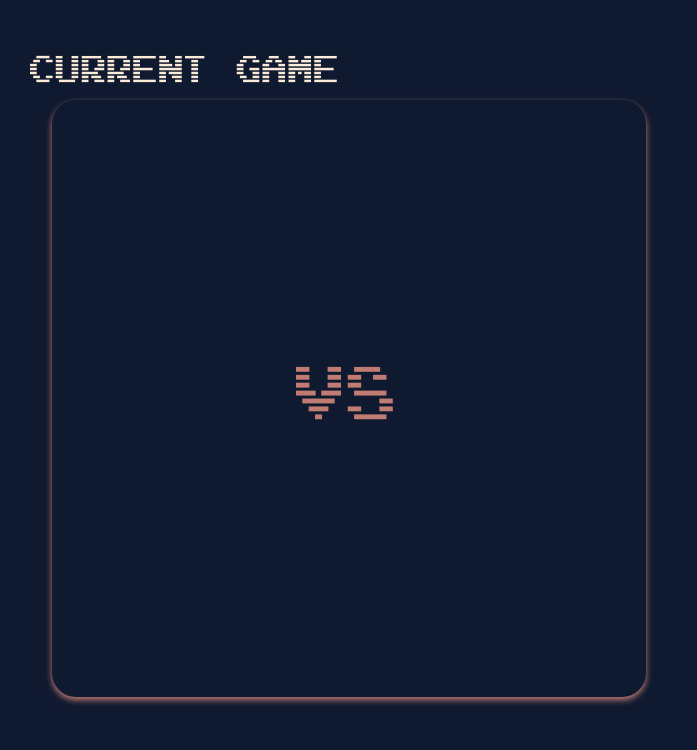
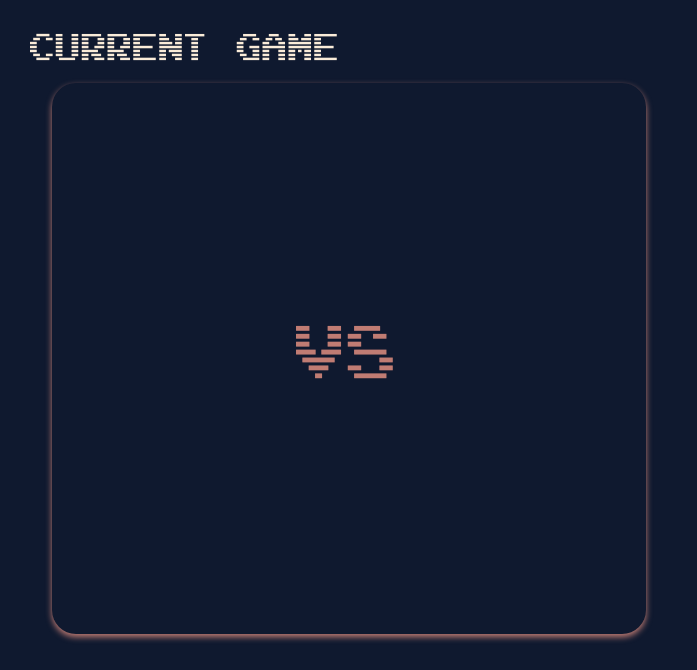
Players' panel är färdig, den har rätt mättningar och stil nu

diff --git a/src/Client/view/CurrentGameUI.java b/src/Client/view/CurrentGameUI.java
@@ -4,6 +4,8 @@ import Client.Controller.ClientController;
 
 import javax.swing.*;
 import java.awt.*;
+import java.io.File;
+import java.io.IOException;
 
 public class CurrentGameUI extends JFrame {
     private ClientController controller;
@@ -13,16 +15,14 @@ public class CurrentGameUI extends JFrame {
     private JPanel playersPnl = new JPanel();
     private JList<String> scoreList = new JList<>();
     private JScrollPane scroll = new JScrollPane();
+    private Font highScoreFont;
 
     public CurrentGameUI(ClientController controller, String name1, String name2){
         this.controller = controller;
-
         openGameUI();
         openPlayersPnl(name1, name2);
         openScorePnl();
-
     }
-
 
     private void openGameUI() {
         SwingUtilities.invokeLater(new Runnable() {
@@ -30,7 +30,7 @@ public class CurrentGameUI extends JFrame {
             public void run() {
                 setTitle("Game");
                 // setPreferredSize(new Dimension(1140, 750));
-                setSize(1140, 750);
+                setSize(1167, 670);
                 //     getContentPane().setLayout(new BorderLayout(0, 0));
                 //setLayout(new BorderLayout());
                 setDefaultCloseOperation(JFrame.EXIT_ON_CLOSE);
@@ -52,7 +52,7 @@ public class CurrentGameUI extends JFrame {
         test.setLayout(null);
         picLabel2.add(test, BorderLayout.PAGE_START);
 
-        scoreListPnl.setPreferredSize(new Dimension(400, 750));
+        scoreListPnl.setPreferredSize(new Dimension(470, 670));
         scoreListPnl.setLayout(new BorderLayout(0, 0)); //tar bort gaps
 
         scoreListPnl.add(picLabel2, BorderLayout.CENTER);
@@ -66,36 +66,30 @@ public class CurrentGameUI extends JFrame {
     private void openPlayersPnl(String name1, String name2) {
         ImageIcon lPic = new ImageIcon("src/Client/view/images/LeftPic.png");
         JLabel picLabel2 = new JLabel(lPic);
-        //picLabel2.setLayout(new FlowLayout());
-
-
-
-        //  String player1 = clientUI.getName1();
-        System.out.println(name1);
-        JLabel player1Lbl = new JLabel("<html>" +
-                "<span style='text-align: center;" +
-                "font: normal normal normal 60px/72px Highscore Hero;" +
-                "color: #FAECD9;" +
-                "opacity: 1;'>"+name1+"</span>" +
-                "</html>", SwingConstants.CENTER);
-
-        JLabel player2Lbl = new JLabel("<html>" +
-                "<span style='text-align: right;" +
-                "font: normal normal normal 60px/72px Highscore Hero;" +
-                "color: #FAECD9;" +
-                "opacity: 1;'>"+name2+"</span>" +
-                "</html>", SwingConstants.CENTER);
-
-
-        // player1Lbl.setLocation(500, 400);
+        try { //skapar en font
+            highScoreFont = Font.createFont(Font.TRUETYPE_FONT, new File("src/Client/view/customFonts/HighscoreHero.ttf")).deriveFont(80f);
+            GraphicsEnvironment graphics = GraphicsEnvironment.getLocalGraphicsEnvironment();
+            graphics.registerFont(Font.createFont(Font.TRUETYPE_FONT, new File("src/Client/view/customFonts/HighscoreHero.ttf")));
+        } catch (IOException | FontFormatException e){
+            System.out.println("There is no such file!");
+        }
+        JLabel player1Lbl = new JLabel(name1);
         player1Lbl.setLayout(null);
-        player1Lbl.setBounds(200, 246, 310, 60);
-        player2Lbl.setLayout(null);
-        player2Lbl.setBounds(200, 430, 310, 60);
+        player1Lbl.setBounds(68, 219, 554, 70);
+        player1Lbl.setForeground(Color.decode("#FAECD9"));
+        player1Lbl.setFont(highScoreFont);
+        player1Lbl.setHorizontalAlignment(SwingConstants.CENTER);
         picLabel2.add(player1Lbl, BorderLayout.PAGE_START);
+
+        JLabel player2Lbl = new JLabel(name2);
+        player2Lbl.setLayout(null);
+        player2Lbl.setBounds(68, 435, 554, 70);
+        player2Lbl.setForeground(Color.decode("#FAECD9"));
+        player2Lbl.setFont(highScoreFont);
+        player2Lbl.setHorizontalAlignment(SwingConstants.CENTER);
         picLabel2.add(player2Lbl, BorderLayout.PAGE_START);
 
-        playersPnl.setPreferredSize(new Dimension(697, 750));
+        playersPnl.setPreferredSize(new Dimension(697, 670));
         playersPnl.setLayout(new BorderLayout(0, 0)); //tar bort gaps
         playersPnl.add(picLabel2, BorderLayout.CENTER);
 
